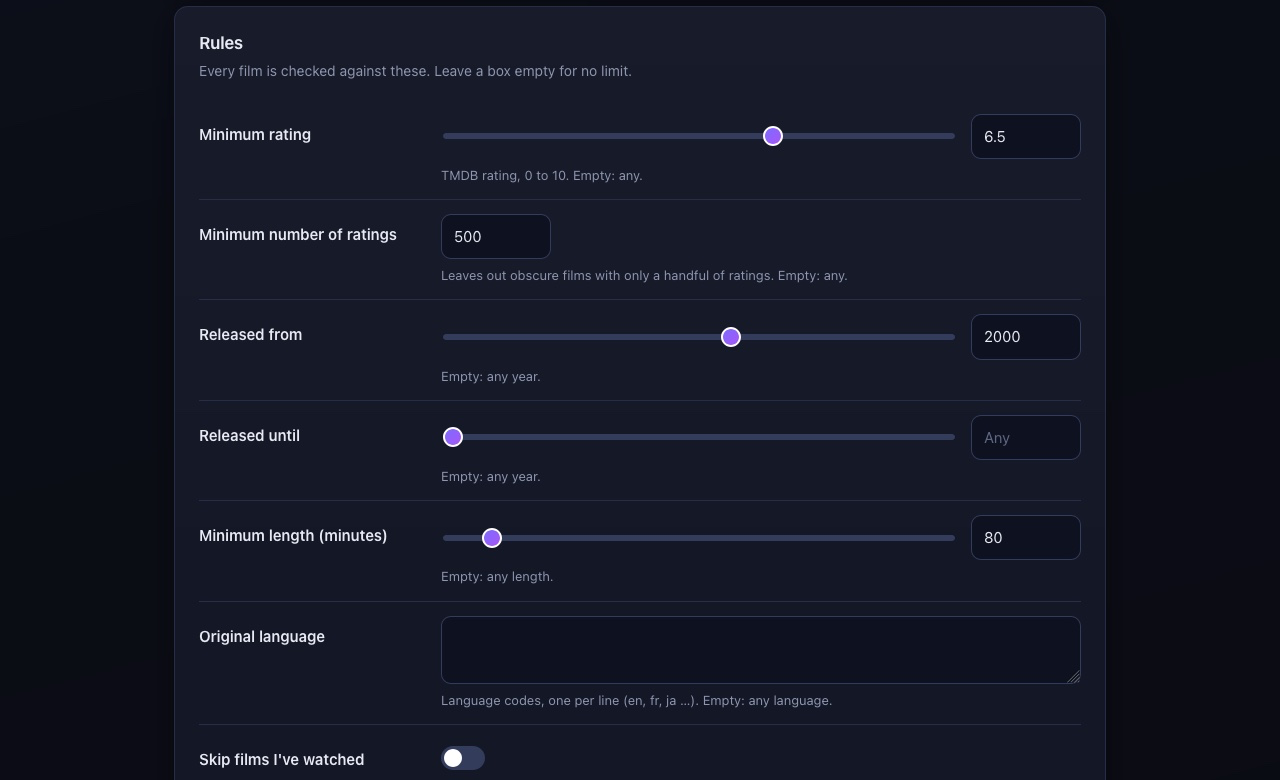
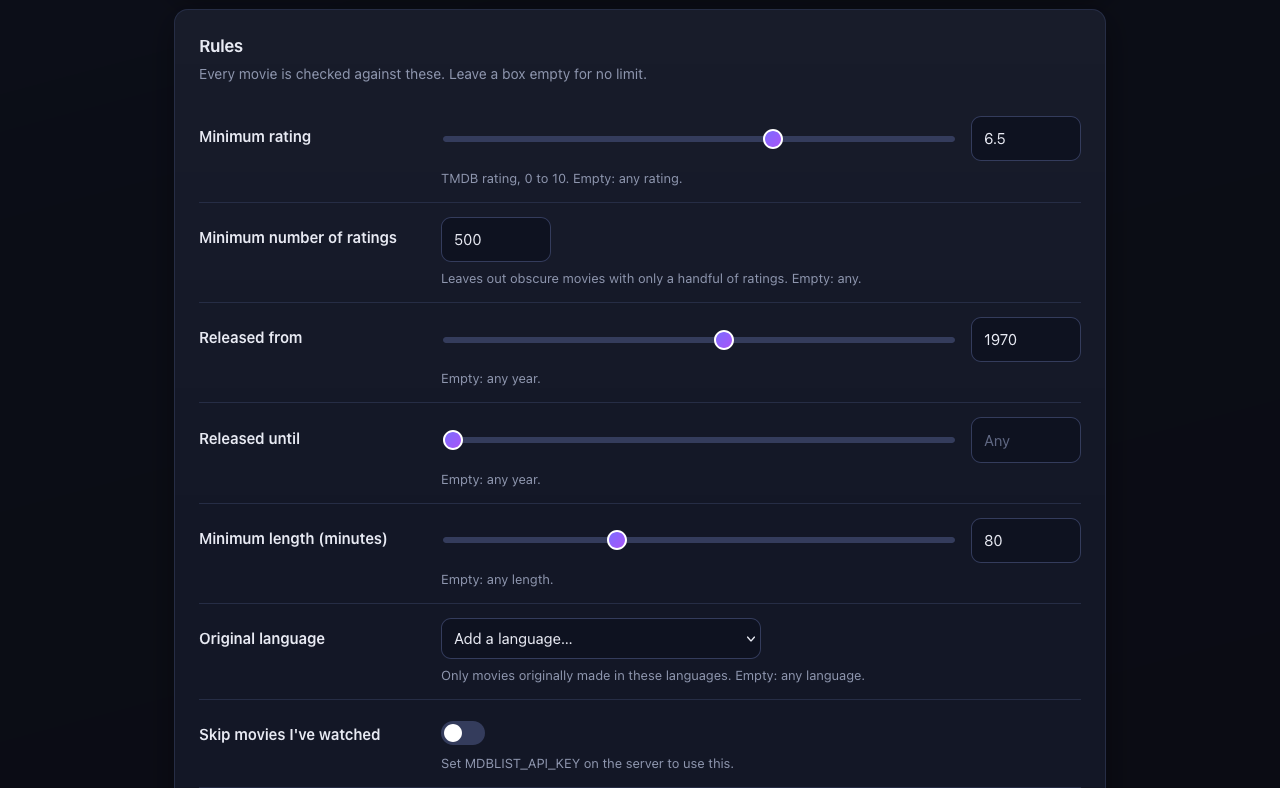
Shortfall "Any" saves, 2x default, plain help, new screenshots (#43)
* Shortfall "Any" saves, ask for 2x by default, plain help, new screenshots

- "Publish what was found" no longer needs "Smallest catalog worth
  publishing": empty (Any) now means publish any non-empty list. Before, the
  form showed "Any" as allowed but refused to save.
- overgenerate_factor default 1.6 -> 2.0. A 40-movie catalog asked for 64
  and usually needed several small top-up calls; 80 up front (2 calls of 40)
  covers it more often. Catalogs that never set it follow the new default.
- Short help for "When there aren't enough new movies" and "When a refresh
  comes up short" (they had none); the strict option now reads "Never repeat".
- README screenshots retaken from the current editor with demo data.

* Format pipeline.py with black

---------

diff --git a/app/curation/editor.py b/app/curation/editor.py
@@ -654,13 +654,13 @@ HELP = {
     "category_min": 'Guarantee some movies for a theme from "Themes to spread the picks across". '
     "Best effort: a refresh still publishes if it can't.",
     "overgenerate_factor": "Some suggestions get rejected by your rules, so the AI is asked for more than "
-    "needed. 1.6 asks for 64 to fill 40. Default 1.6.",
+    "needed. 2 asks for 80 to fill 40. Default 2.",
     "history_window_runs": "Movies from the last few versions of this catalog are not picked again. "
     "Default 7: with a daily refresh, nothing repeats within a week.",
-    "history_mode": "",
-    "on_shortfall": "",
-    "min_accept": 'Only used with "Publish what was found": a refresh that finds fewer movies than this keeps '
-    "the previous version instead.",
+    "history_mode": "If the AI runs out of new movies: skip repeats, or let the oldest ones back in.",
+    "on_shortfall": "If a refresh finds fewer movies than you asked for: keep the current list, or use the "
+    "shorter one.",
+    "min_accept": 'With "Publish what was found": never publish fewer than this. Any: no minimum.',
     "max_model_calls_per_run": "A run asks the AI once (big catalogs: a few times, about 60 movies per ask). If too "
     'many suggestions fail your rules, it asks again for more: those are the "extra rounds to fill gaps" in a '
     "run's details. This caps all of them per run. Default 8; a typical run uses 1 or 2.",
@@ -677,7 +677,7 @@ HELP = {
 OPTION_LABELS = {
     "type": {"movie": "Movies", "series": "Shows"},
     "history_mode": {
-        "strict": "Keep the previous version (never repeat)",
+        "strict": "Never repeat",
         "relax": "Allow the oldest repeats back in",
     },
     "on_shortfall": {

diff --git a/tests/unit/curation/test_pipeline.py b/tests/unit/curation/test_pipeline.py
@@ -78,10 +78,10 @@ async def test_happy_path_publishes_exactly_100_unique():
     assert len(published) == 100 and len(set(published)) == 100
     run = last_run()
     assert run["status"] == "ok" and run["seed"] and run["prompt_hash"]
-    assert run["model_calls"] == 3  # 160 requested in batches of 60, 60, 40
-    assert services.llm.calls == 3
+    assert run["model_calls"] == 4  # 200 requested in batches of 50
+    assert services.llm.calls == 4
     counts = json.loads(run["stage_counts_json"])
-    assert counts["generated"] == 160 and counts["eligible"] == 160 and counts["selected"] == 100
+    assert counts["generated"] == 200 and counts["eligible"] == 200 and counts["selected"] == 100
     with db.session() as conn:
         assert conn.execute("SELECT COUNT(*) FROM history").fetchone()[0] == 100
         job = conn.execute("SELECT state FROM jobs").fetchone()
@@ -212,7 +212,7 @@ async def test_topup_shortfall_is_computed_after_selection():
     assert services.llm.calls > 3
     published = [int(i[2:]) - 1_000_000 for i in active_ids()]
     assert sum(1 for n in published if n <= 120) == 1
-    assert "STILL NEEDED" in services.llm.prompts[3]
+    assert "STILL NEEDED" in services.llm.prompts[4]
 
 
 async def test_hard_decade_quota_steers_topups_and_is_met():

diff --git a/app/curation/pipeline.py b/app/curation/pipeline.py
@@ -311,7 +311,7 @@ class RunSettings:
     @classmethod
     def from_definition(cls, d: Mapping[str, Any]) -> "RunSettings":
         target = int(d.get("target_count") or 100)
-        factor = float(d.get("overgenerate_factor") or 1.6)
+        factor = float(d.get("overgenerate_factor") or 2.0)
         return cls(
             target_count=target,
             request_total=max(target, math.ceil(target * factor)),
@@ -631,11 +631,7 @@ class Pipeline:
         count = len(selection.selected)
         if self._satisfied(selection):
             required, quotas, partial = self.settings.target_count, dict(self.limits.decade_min), False
-        elif (
-            self.settings.on_shortfall == "publish_partial"
-            and self.settings.min_accept is not None
-            and count >= self.settings.min_accept
-        ):
+        elif self.settings.on_shortfall == "publish_partial" and count >= (self.settings.min_accept or 1):
             required, partial = count, True
             quotas = scaled_quotas(self.limits, count, self.settings.target_count)
             if any(sum(1 for p in selection.selected if p.decade == d) < n for d, n in quotas.items()):

diff --git a/app/curation/definitions.py b/app/curation/definitions.py
@@ -114,7 +114,7 @@ class CatalogDefinition(BaseModel):
 
     # Run shape
     target_count: int = Field(default=100, ge=1, le=MAX_ITEMS)
-    overgenerate_factor: float = Field(default=1.6, ge=1.0, le=5.0)
+    overgenerate_factor: float = Field(default=2.0, ge=1.0, le=5.0)
     history_window_runs: int = Field(default=7, ge=0, le=1000)
     history_mode: Literal["strict", "relax"] = "strict"
     on_shortfall: Literal["fail", "publish_partial"] = "fail"
@@ -125,8 +125,6 @@ class CatalogDefinition(BaseModel):
 
     @model_validator(mode="after")
     def _consistent(self):
-        if self.on_shortfall == "publish_partial" and self.min_accept is None:
-            raise ValueError("on_shortfall: publish_partial needs min_accept")
         if self.min_accept is not None and self.min_accept > self.target_count:
             raise ValueError("min_accept must not be greater than target_count")
         if self.type == SERIES:

diff --git a/tests/unit/api/test_admin.py b/tests/unit/api/test_admin.py
@@ -362,7 +362,10 @@ def test_validation_errors_are_shown_and_nothing_is_stored(client):
         ({"prompt": PROMPT, "target_count": "abc"}, "Movies in the catalog: enter a number"),
         ({"prompt": PROMPT, "schedule": "cron: '0 6 * *'"}, "Refresh: a custom schedule needs five parts"),
         ({"prompt": PROMPT, "decade_min": "[unclosed"}, "Minimum movies per decade: couldn&#39;t read this value"),
-        ({"prompt": PROMPT, "on_shortfall": "publish_partial"}, "Smallest catalog worth publishing"),
+        (
+            {"prompt": PROMPT, "target_count": "40", "on_shortfall": "publish_partial", "min_accept": "60"},
+            "Smallest catalog worth publishing",
+        ),
         ({"prompt": ""}, "What kind of movies do you want?"),
     ]
     for values, expected in cases:

diff --git a/tests/unit/curation/test_definitions.py b/tests/unit/curation/test_definitions.py
@@ -166,7 +166,7 @@ def test_validate_dir_writes_nothing(tmp_path):
         ("released: 2020-01-01\n", "plain text"),
         ("target_count: 0\n", "target_count"),
         ("target_count: 300\n", "target_count"),
-        ("on_shortfall: publish_partial\n", "min_accept"),
+        ("on_shortfall: publish_partial\nmin_accept: 200\ntarget_count: 100\n", "min_accept"),
         ("decade_min: {1980: 60, 1990: 60}\n", "decade_min asks for 120"),
         ("year_min: 2000\ndecade_min: {1980: 5}\n", "outside year_min"),
         ("history_mode: loose\n", "history_mode"),

diff --git a/PLAN.md b/PLAN.md
@@ -246,7 +246,7 @@ The pipeline keeps one candidate pool for the run; every stage is idempotent ove
 
 1. **Render prompt** (section 6) for the first batch.
 2. **Generate** via `CuratedLLMService` (section 7): ask for
-   `target_count * overgenerate_factor` (default 100 x 1.6) in batches of <= 60, each
+   `target_count * overgenerate_factor` (default 100 x 2.0) in batches of <= 60, each
    batch told the titles already produced this run.
 3. **Normalise + dedupe** on (casefolded, punctuation-stripped title, year).
 4. **Static + history pre-filter** by normalised title/year (cheap; saves TMDB calls).
@@ -355,7 +355,7 @@ automatically when a definition is applied, with the same resolver as the gateke
 `scripts/resolve_blacklist.py` exposes that resolution for inspection only.
 
 The YAML also carries: `model`, `temperature`, `max_tokens`, `timeout_s`,
-`target_count` (default 100), `overgenerate_factor` (default 1.6), `schedule` (cron +
+`target_count` (default 100), `overgenerate_factor` (default 2.0), `schedule` (cron +
 timezone), `history_window_runs` (default 7), `history_mode` (default `strict`),
 `on_shortfall` (default `fail`), `max_model_calls_per_run` (default 8),
 `max_runs_per_day` (default 4), `weekday_focus`, `exclude_watched` (default false) and
